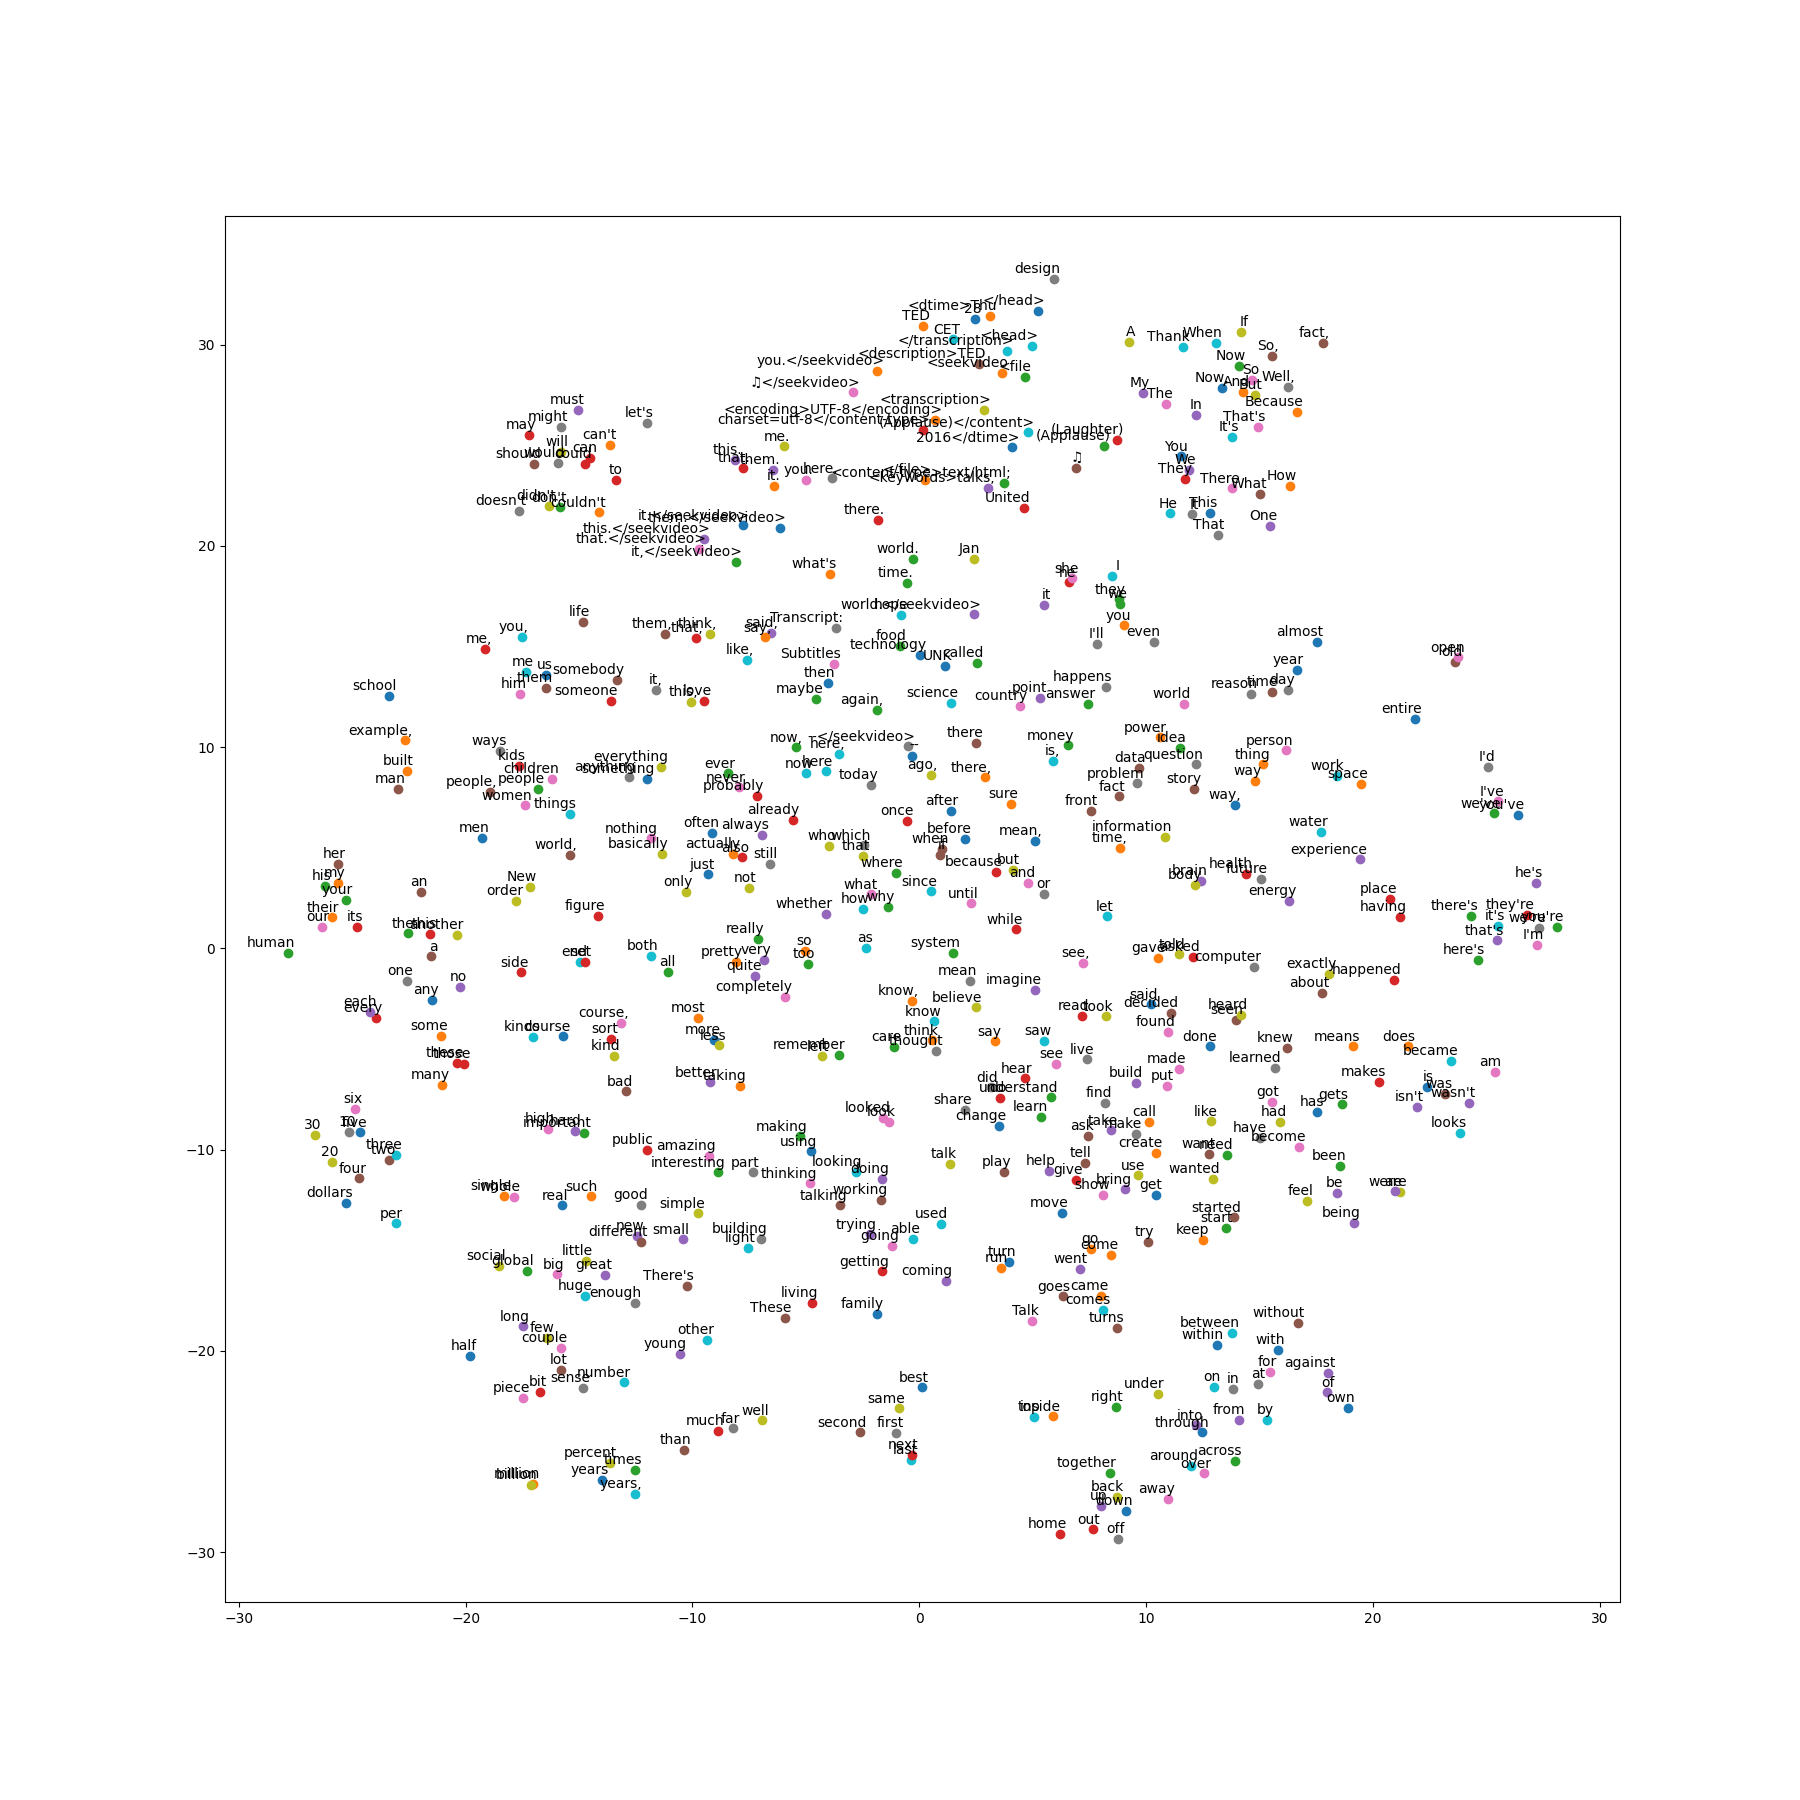
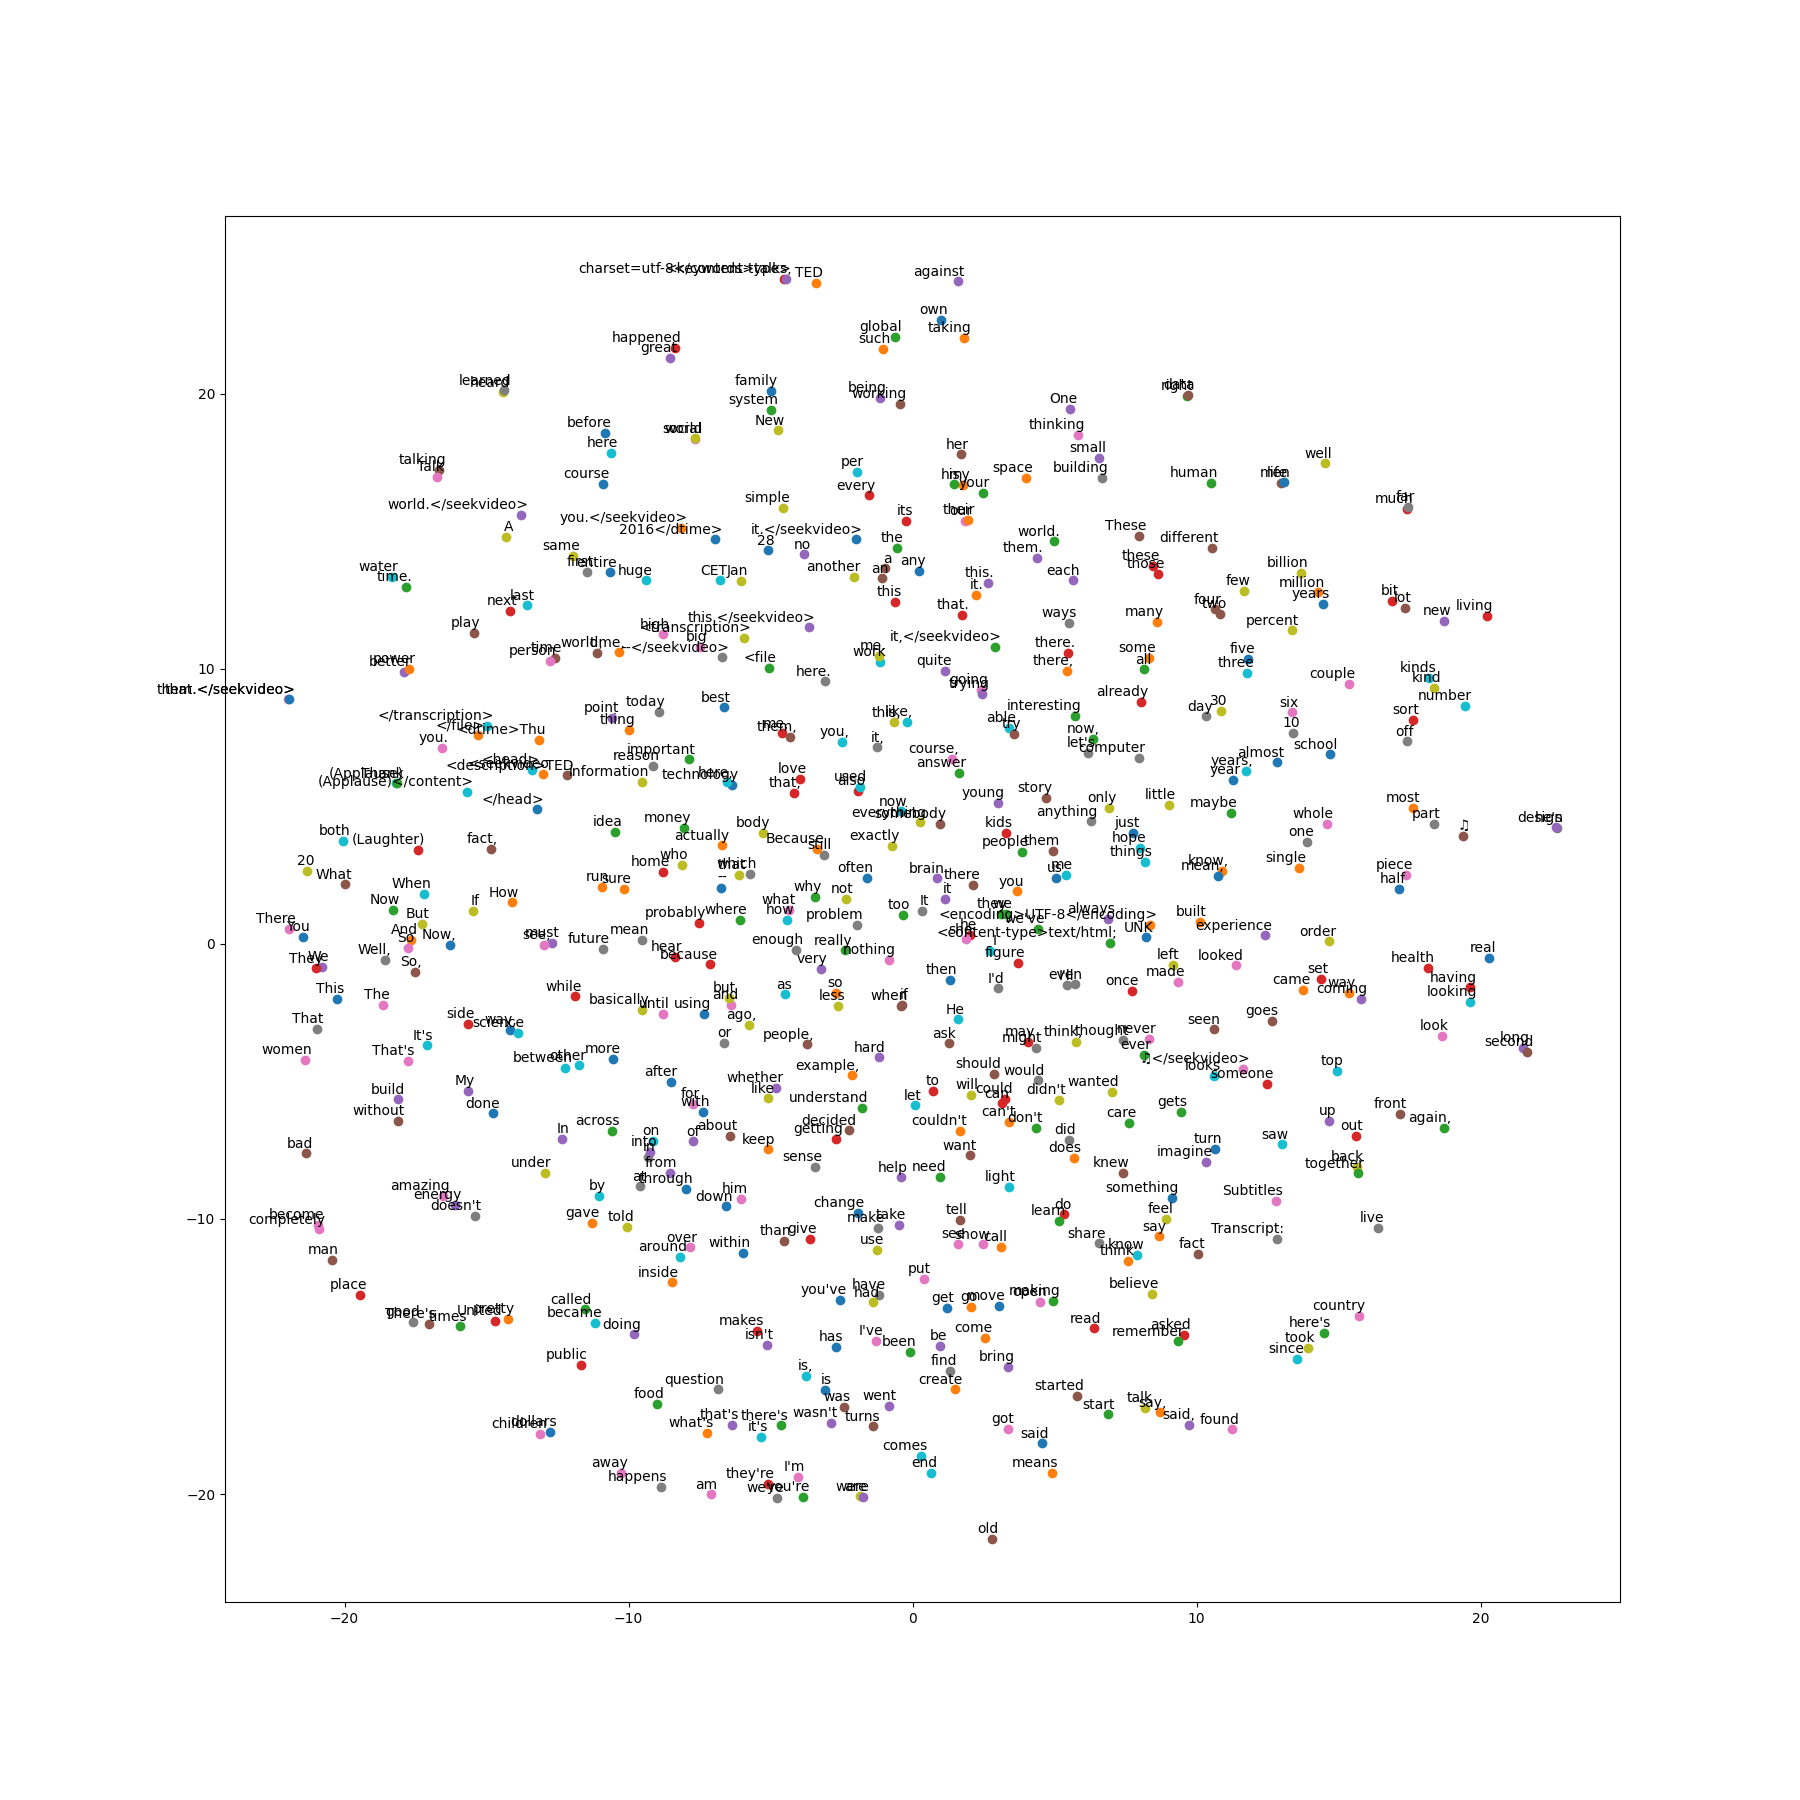
batch_size = 256 embedding_size = 256 skip_window = 2

diff --git a/word2vec_basic.py b/word2vec_basic.py
@@ -118,9 +118,9 @@ for i in range(8):
 
 # Step 4: Build and train a skip-gram model.
 
-batch_size = 128
-embedding_size = 128  # Dimension of the embedding vector.
-skip_window = 1  # How many words to consider left and right.
+batch_size = 256
+embedding_size = 256  # Dimension of the embedding vector.
+skip_window = 2  # How many words to consider left and right.
 num_skips = 2  # How many times to reuse an input to generate a label.
 
 # We pick a random validation set to sample nearest neighbors. Here we limit the
